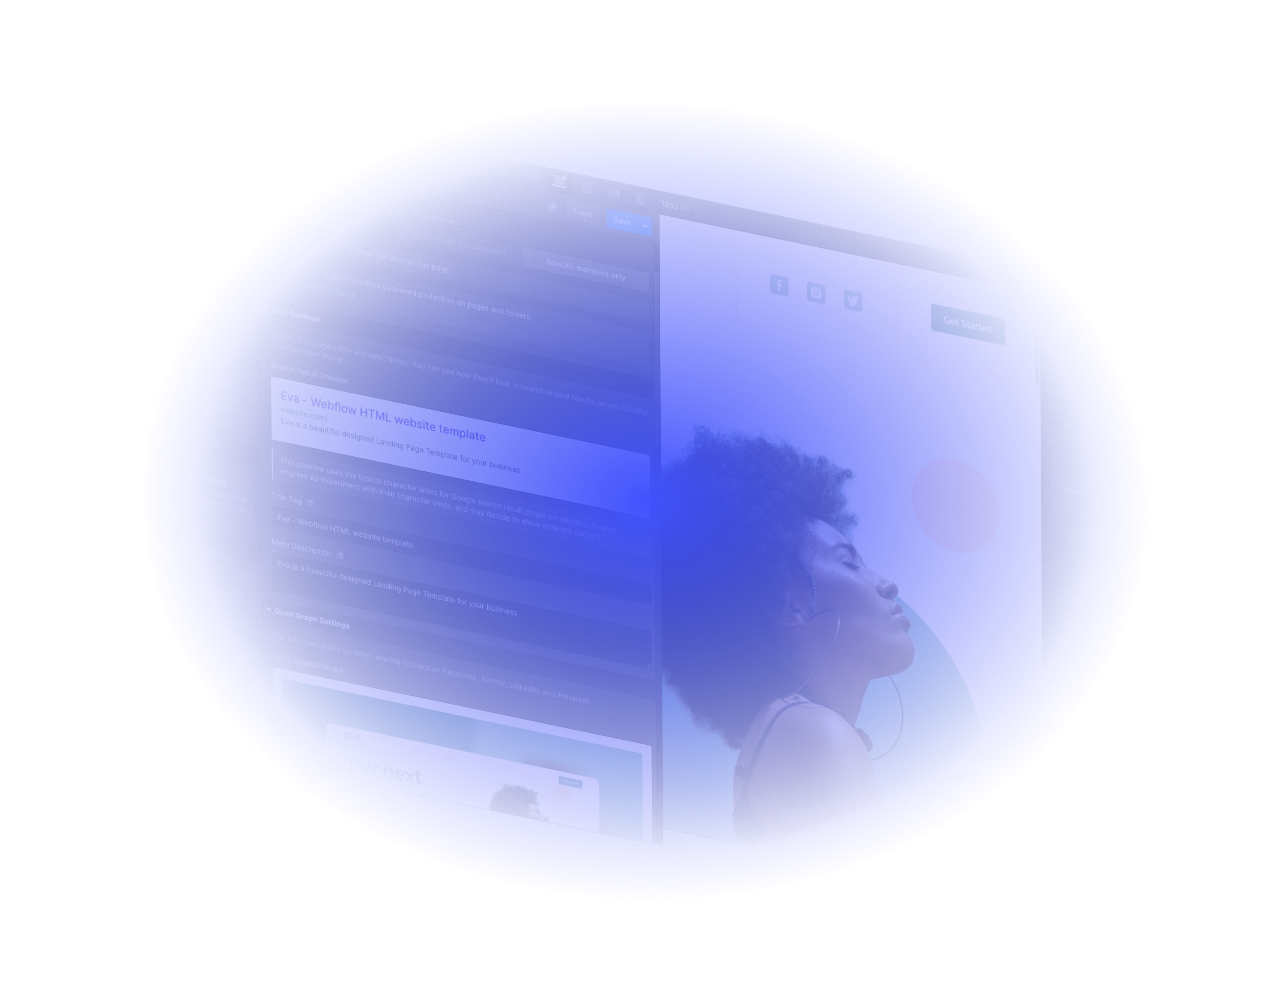
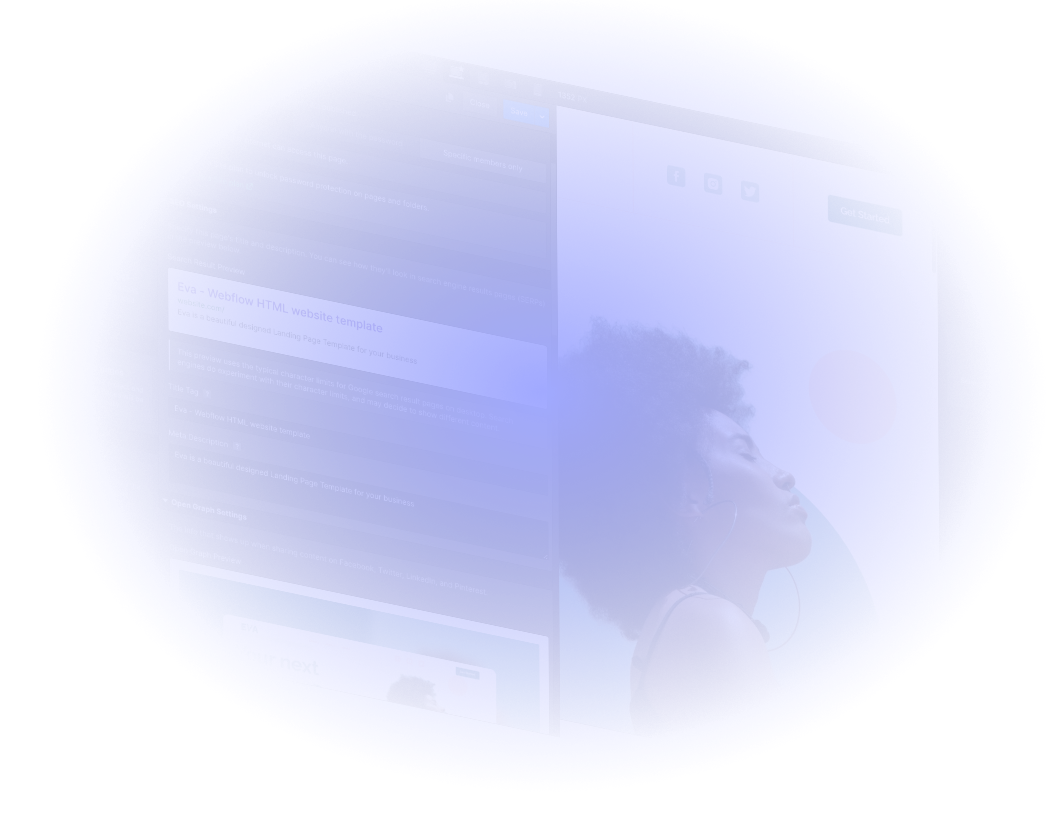
update quote

diff --git a/index.html b/index.html
@@ -102,7 +102,7 @@
             </div>
         </header>
         <main class="overflow-x-hidden px-3">
-            <div class="flex items-center justify-center" style="min-height: 100svh">
+            <div class="flex hero items-center justify-center" style="min-height: 100svh">
                 <div class="relative">
                     <div class="flex flex-col md:flex-row items-center relative z-10" data-pg-ia='{"l":[{"a":{"l":[{"t":"","l":[{"t":"tween","p":0,"d":1,"l":{"autoAlpha":1}}]}]},"trg":"now"}]}' data-pg-ia-hide>
                         <div class="relative z-10">
@@ -117,21 +117,24 @@
                             </svg>
                         </div>
                     </div>
-                    <img src="assets/images/hero.webp" class="absolute inset-0 opacity-50 z-0 md:-translate-y-1/2 md:inset-auto md:right-0 md:top-1/2"/>
+                    <img src="assets/images/hero.webp" class="absolute hidden z-0 md:-right-32 md:-translate-y-1/2 md:block md:top-1/2"/>
                 </div>
             </div>
             <section class="mb-32">
                 <div class="max-w-screen-xl mx-auto">
-                    <div class="bg-brand-yellow gap-14 p-6 relative rounded-[30px] text-brand-black md:flex md:p-12" data-pg-ia-scene='{"l":[{"a":{"l":[{"t":"","l":[{"t":"set","p":0,"d":0,"l":{"y":"300px","rotationZ":"10deg"}},{"t":"tween","p":0.01,"d":0.99,"l":{"y":0,"rotationZ":"0deg","autoAlpha":1},"e":"Power4.easeOut"}]}]},"p":"time","on":"desktop"}]}'>
+                    <div class="bg-brand-yellow gap-14 items-center p-6 relative rounded-[30px] text-brand-black md:flex md:p-12" data-pg-ia-scene='{"l":[{"a":{"l":[{"t":"","l":[{"t":"set","p":0,"d":0,"l":{"y":"300px","rotationZ":"10deg"}},{"t":"tween","p":0.01,"d":0.99,"l":{"y":0,"rotationZ":"0deg","autoAlpha":1},"e":"Power4.easeOut"}]}]},"p":"time","on":"desktop"}]}'>
                         <div class="relative md:w-1/2 z-10">
                             <h2 class="leading-tight mb-6 text-4xl md:text-6xl md:mb-0">
                 1 Monthly Price. <div>Unlimited Requests.</div> </h2>
                         </div>
                         <div class="relative md:w-1/2 z-10">
-                            <p class="mb-6 text-xl">
+                            <p class="mb-9 text-xl">
                 Hassle free, subscription-based Webflow support starting at
                 &pound;4,999. </p>
-                            <a href="#plans" class="bg-brand-white border-2 border-brand-black button-shadow font-bold inline-block px-9 py-3 text-center w-full md:text-left md:w-auto">Start Now</a>
+                            <blockquote class="mb-6">
+                                <q class="font-title leading-relaxed text-2xl">FlowSt8 were able to take our designs and create a website with a super quick turnaround. We were impressed with the accuracy of the design and the quality of the code.</q>
+                                <footer class="text-right">— Metomic, UK</footer>
+                            </blockquote><a href="#plans" class="bg-brand-white border-2 border-brand-black button-shadow font-bold inline-block px-9 py-3 text-center w-full md:text-left md:w-auto">Start Now</a>
                         </div>
                         <div style="background-image: url('assets/images/screen.webp')" class="absolute bg-center bg-cover blur-sm grayscale inset-0 opacity-10 z-0"></div>
                     </div>
@@ -275,6 +278,9 @@
                                     <li class="font-bold">5% to Charity of choice</li>
                                 </ul>
                                 <a href="https://buy.stripe.com/eVa01JgZ9a1ndmU8wB" class="bg-brand-white border-2 border-brand-black button-shadow font-bold inline-block mb-6 px-9 py-3 text-center w-full md:hidden">Start Now</a>
+                                <div class="mb-3 py-3 text-center md:hidden">
+                                    <a href="https://calendly.com/jupiterandthegiraffe/casual-chat" class="focus:no-underline hover:no-underline underline" target="_blank">Book call</a>
+                                </div>
                             </div>
                             <div class="border-brand-black mb-6 md:mb-0 border-b-2 md:border-b-0 md:border-r-2 md:mr-6 md:pr-6 md:w-1/3">
                                 <span class="bg-brand-purple border-2 border-brand-black inline-block mb-5 pl-5 pr-6 py-1 rounded-full text-brand-white text-xs md:hidden">Recommended</span>
@@ -292,6 +298,9 @@
                                     <li class="font-bold">5% to Charity of choice</li>
                                 </ul>
                                 <a href="https://buy.stripe.com/bIYeWD4cn5L73Mk3cf" class="bg-brand-white border-2 border-brand-black button-shadow font-bold inline-block mb-6 px-9 py-3 text-center w-full md:hidden">Start Now</a>
+                                <div class="mb-3 py-3 text-center md:hidden">
+                                    <a href="https://calendly.com/jupiterandthegiraffe/casual-chat" class="focus:no-underline hover:no-underline underline" target="_blank">Book call</a>
+                                </div>
                             </div>
                             <div class="md:pr-6 md:w-1/3">
                                 <h3 class="text-xl">Yearly</h3>
@@ -308,6 +317,9 @@
                                     <li class="font-bold">5% to Charity of choice</li>
                                 </ul>
                                 <a href="https://buy.stripe.com/bIY7ubbEP3CZ3Mk148" class="bg-brand-white border-2 border-brand-black button-shadow font-bold inline-block mb-6 px-9 py-3 text-center w-full md:hidden">Start Now</a>
+                                <div class="mb-3 py-3 text-center md:hidden">
+                                    <a href="https://calendly.com/jupiterandthegiraffe/casual-chat" class="focus:no-underline hover:no-underline underline" target="_blank">Book call</a>
+                                </div>
                             </div>
                         </div>
                         <div class="md:flex hidden">

diff --git a/main.css b/main.css
@@ -103,3 +103,16 @@ h5 {
       -ms-transform: rotate(45deg);
           transform: rotate(45deg);
 }
+
+.hero {
+  background-image: url("assets/images/hero.webp");
+  background-repeat: no-repeat;
+  background-position: center center;
+  background-size: contain;
+}
+
+@media (min-width: 768px) {
+  .hero {
+    background-image: none;
+  }
+}

diff --git a/main.scss b/main.scss
@@ -96,3 +96,16 @@ h5 {
         transform: rotate(45deg);
     }
 }
+
+.hero {
+    background-image: url('assets/images/hero.webp');
+    background-repeat: no-repeat;
+    background-position: center center;
+    background-size: contain;
+}
+
+@media (min-width: 768px) {
+    .hero {
+        background-image: none
+    }
+}
